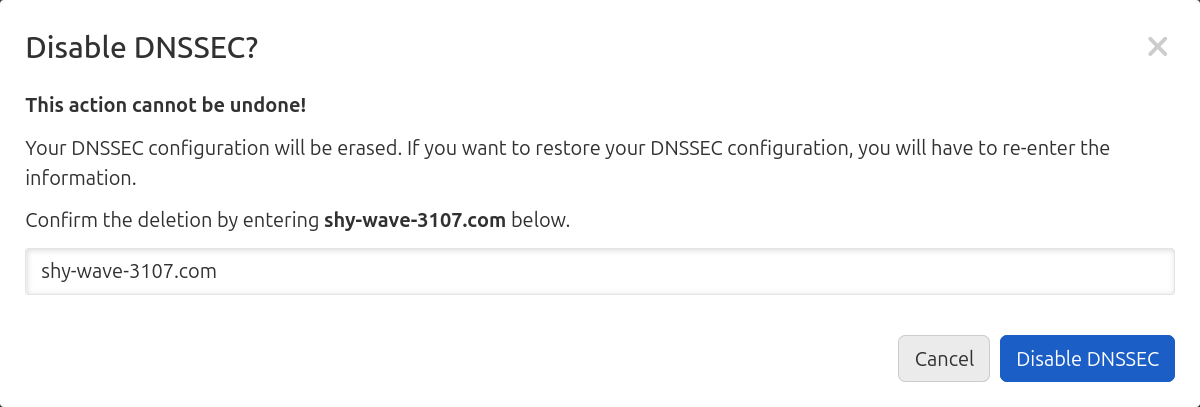
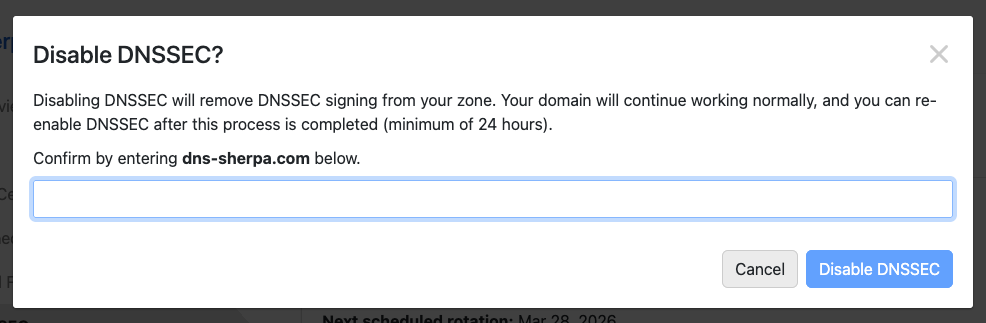
Change: Update DNSSEC article to refine guidance on disabling and remove outdated warnings
# Conflicts:
#	content/articles/disabling-dnssec.md

Changed region(s): [[0.0, 0.0, 1.0, 1.0]]

diff --git a/content/articles/disabling-dnssec.md b/content/articles/disabling-dnssec.md
@@ -1,20 +1,13 @@
 ---
 title: Disabling DNSSEC
-excerpt: Learn how to disable DNSSEC for your domain, including critical warnings about removing DS records to prevent DNSSEC validation failures.
-meta: Learn how to disable DNSSEC for your domain at DNSimple. Understand critical warnings about removing DS records to prevent DNSSEC validation failures.
+excerpt: Learn how to disable DNSSEC for your domain, including critical warnings about removing DS records to prevent DNS resolution issues.
+meta: Learn how to disable DNSSEC for your domain at DNSimple. Understand critical warnings about removing DS records to prevent DNS resolution issues.
 categories:
 - DNSSEC
 - Enterprise
 ---
 
 # Disabling DNSSEC
-
-If you're new to DNSSEC, see [What Is DNSSEC?](/articles/what-is-dnssec/) to understand what DNSSEC is. For a comprehensive overview of DNSSEC at DNSimple, see [DNSSEC at DNSimple](/articles/dnssec/).
-
-<warning>
-If your domain is registered with another registrar, you must remove the DS record from that registrar before you disable zone signing in DNSimple. If the DS record is not removed within 48 hours, your domain will experience DNSSEC validation failures and cease to resolve for DNSSEC-aware resolvers, making your domain unreachable. For step-by-step instructions on removing DS records, see [Adding and Removing DS Records](/articles/manage-ds-record/). To learn more about DS records, see [What Are DS Records?](/articles/what-are-ds-records/).
-</warning>
-
 
 1. Select the correct account in the **account switcher** at the top right.
   ![screenshot of switching accounts](/files/switch-account.png)
@@ -26,8 +19,7 @@ If your domain is registered with another registrar, you must remove the DS reco
   ![screenshot of disabling dnssec](/files/dnssec-disable.png)
 1. Enter the domain to verify, and click **Disable DNSSEC** again to remove the zone signing (and the DS record if it is present in DNSimple).
   ![screenshot of confirming disabling of dnssec](/files/dnssec-disable-confirm.png)
-1. When you click **Disable DNSSEC** for a domain that is registered with another domain registrar, you will see a reminder message to remove the DS record within 48 hours to prevent DNSSEC validation failures.
-  ![screenshot of confirming disabling of external domain dnssec](/files/dnssec-disable-external.png)
+
 
 <info>
   To learn how to disable DNSSEC with the API, check out our [developer documentation](https://developer.dnsimple.com/v2/domains/dnssec/#disableDomainDnssec). 
